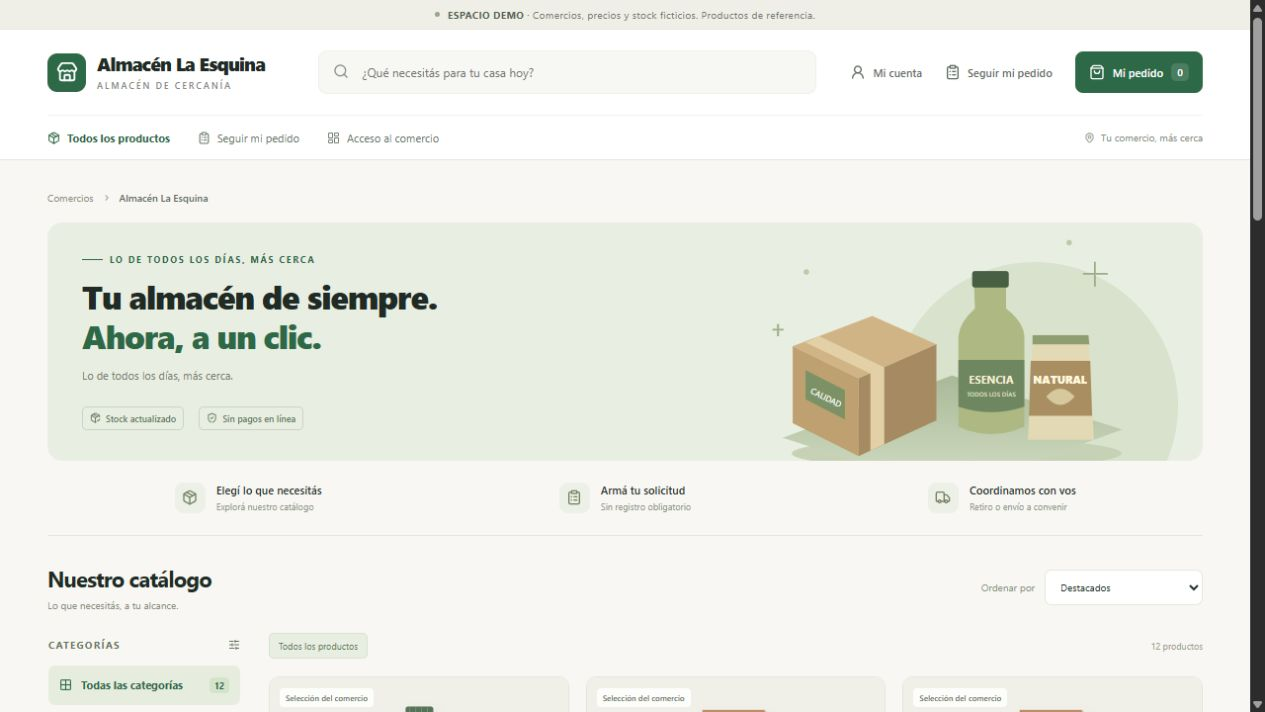
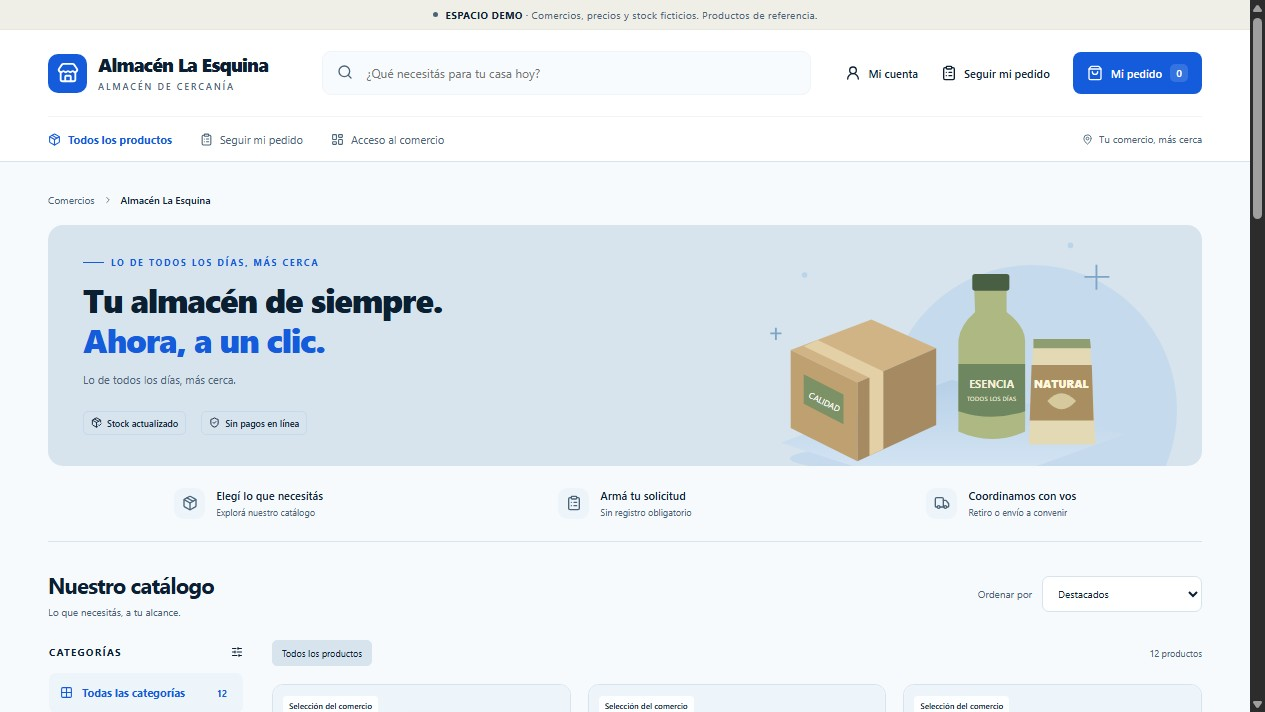
Refresh demo gallery for original Scalaris blue branding

diff --git a/public/proyectos/index.html b/public/proyectos/index.html
@@ -149,7 +149,7 @@
           <article class="project-card project-emedicapp" data-project="e-medicapp" data-state="demo">
             <a class="project-preview" href="https://scalaris.com.ar/e-medicapp/" target="_blank" rel="noopener noreferrer" aria-label="Explorar la demo de E-MEDICAPP, abre en una pestaña nueva">
               <div class="project-browser" aria-hidden="true"><span class="browser-dots"><i></i><i></i><i></i></span><span>scalaris.com.ar/e-medicapp/</span><span>↗</span></div>
-              <img src="../assets/proyectos/e-medicapp.webp" width="1200" height="537" alt="Vista de E-MEDICAPP, la aplicación de compras y gestión para farmacias" loading="lazy" decoding="async">
+              <img src="../assets/proyectos/e-medicapp.webp" width="1910" height="889" alt="Vista del acceso de E-MEDICAPP, con perfiles de demostración y la paleta azul de Scalaris" loading="lazy" decoding="async">
               <span class="preview-caption demo-caption">Demo interactiva</span>
             </a>
             <div class="project-copy">

diff --git a/README.md b/README.md
@@ -27,7 +27,7 @@ Abrir http://127.0.0.1:8080. Para abrirlo con doble clic, usar `VerSitio.cmd` y 
 
 - `public/proyectos/` reúne 19 fichas. Las tres primeras muestran las demos de Scalaris Comercio: Corralón Punto Obra, Ronda Mayorista y Almacén La Esquina, con acceso directo a `/comercio/t/corralon-demo`, `/comercio/t/mayorista-demo` y `/comercio/t/almacen-demo`. La cuarta presenta Scalaris Mesa en `/mesa/`, una demo de gestión para restaurantes y cafés con un entorno independiente y datos ficticios por visitante. Conserva Remodelaya, Shekinah, Tu Comida, E-MEDICAPP, Burger House, Gestudio, FourBubbles, Scalaris CRM, PharmaHome, Calendario de servicios, Inventarios Mueblería, Gym & Academy Manager, Presupuestador Flete, HogarIA y CJ Préstamos. Distingue los proyectos desplegados, las demos interactivas y los proyectos en preparación. Burger House es un proyecto desplegado y Tu Comida es una demo interactiva. Las fichas pendientes ofrecen una consulta, sin publicar una dirección de demo todavía inexistente. Tu Comida, E-MEDICAPP y Burger House se abren en `/tu-comida/`, `/e-medicapp/` y `/burger-house-3/`. Las 19 fichas tienen miniatura: trece capturas reales (nueve WebP, tres JPEG y un PNG) y seis portadas SVG originales identificadas como vistas ilustrativas. Gestudio, FourBubbles y Mesa muestran datos ficticios; PharmaHome muestra un formulario vacío. Shekinah conserva su captura local identificada porque el acceso público fue bloqueado por FortiGuard en este entorno.
 - Cada ficha declara `data-project` y `data-state` (`live`, `demo` o `preparation`). Al verificar una nueva publicación, actualizar juntos estado, etiqueta, nota y enlace de la ficha correspondiente. La verificación de publicación exige las 19 fichas, identificadores únicos, estados válidos y los enlaces de las demos de Comercio y Mesa. También comprueba que Mesa se presente como demo, use su captura y explique los datos ficticios y el entorno por visitante.
-- Evaluación del estándar (24/10/2026, fuentes: `package.json`, `wrangler.jsonc`, `.github/workflows/check.yml`, las páginas de `public/` y `functions/mesa/[[path]].js`): la galería usa HTML/CSS estáticos y Cloudflare Pages con CI; no necesita un backend ni base de datos propios. Conservar esa arquitectura permite agregar Mesa mediante una ficha, una captura y el control existente, con bajo esfuerzo y sin introducir otra compilación o despliegue para la galería. La aplicación Mesa mantiene su frontend React, backend Spring y PostgreSQL en el VPS, bajo el prefijo público `/mesa/`. La aceptación de esta ampliación es encontrar la ficha, identificarla como demo con datos ficticios por visitante y abrir `/mesa/` tanto desde la miniatura como desde el enlace. Las capturas de Comercio se tomaron de sus páginas públicas el 23/10/2026; la de Mesa se tomó el 24/10/2026 en 1440 × 900, con el salón y una cuenta ficticia.
+- Evaluación del estándar (24/10/2026, fuentes: `package.json`, `wrangler.jsonc`, `.github/workflows/check.yml`, las páginas de `public/` y `functions/mesa/[[path]].js`): la galería usa HTML/CSS estáticos y Cloudflare Pages con CI; no necesita un backend ni base de datos propios. Conservar esa arquitectura permite agregar Mesa mediante una ficha, una captura y el control existente, con bajo esfuerzo y sin introducir otra compilación o despliegue para la galería. La aplicación Mesa mantiene su frontend React, backend Spring y PostgreSQL en el VPS, bajo el prefijo público `/mesa/`. La aceptación de esta ampliación es encontrar la ficha, identificarla como demo con datos ficticios por visitante y abrir `/mesa/` tanto desde la miniatura como desde el enlace. Las capturas de Comercio, Mesa y E-MEDICAPP se renovaron desde sus páginas públicas el 27/10/2026 con la paleta azul. Mesa conserva la vista del salón y una cuenta ficticia a 1440 × 900; E-MEDICAPP muestra su acceso y perfiles de demostración.
 - `public/tienda/` permite buscar por modelo/marca, filtrar por categoría, ordenar por precio, revisar fichas y agregar hasta 12 productos distintos a un pedido. Muestra precios unitarios, subtotales y total por transferencia; el envío se cotiza aparte por código postal. Las cantidades, referencias y el total se preparan en un enlace de WhatsApp; la persona revisa y envía el mensaje. No hay cobro automático ni reserva de stock. La selección se conserva en la sesión del navegador, sin datos personales.
 - Importación del 20/10/2026: 7.305 productos (NB 1.409, DistriLand 2.796 y TecnoPrices 3.100). Las fotos de NB usan sus URL originales; las de TecnoPrices se extrajeron del PDF y se alojan localmente (2.730 archivos únicos, 12,3 MB). DistriLand queda con un marcador explícito de imagen pendiente. Las descripciones son las referencias disponibles en las fuentes; no se inventan especificaciones.
 - El catálogo público contiene nombres, categorías, fotos y referencias; no expone costo, escalas mayoristas, stock histórico ni información interna. El importador y los controles usan una lista explícita de campos públicos. Los nombres iguales entre proveedores conservan sus referencias: no se asume que variantes diferentes sean el mismo producto.
@@ -35,6 +35,18 @@ Abrir http://127.0.0.1:8080. Para abrirlo con doble clic, usar `VerSitio.cmd` y 
 - Los precios se calculan desde los costos finales y el patrón comercial guardado exclusivamente en `.private/market-research/pricing-settings.json`. El usuario cerró las búsquedas el 21/10/2026 y se eliminó el seguimiento automático. La evidencia anterior conserva sus fechas y sólo se muestra mientras siga vigente. Ver [estrategia de venta](scripts/ESTRATEGIA-PRECIOS.md) y [validación de referencias](scripts/MERCADO.md).
 
 Para actualizar listas, fotos o costos NB en pesos, seguir [Importar catálogos](scripts/IMPORTAR-CATALOGOS.md). La actualización NB del 20/10/2026 (`NB-Lista-Precios-20_10_2026_01_55-84844.xls`) aporta **1.408 costos finales en ARS**, unidos por identificador de URL al código NB original. Se usa la columna `Costo`; las fotos y referencias provienen del catálogo anterior. El producto `nb-124029` (Kit Gigabyte promoción) no figura en esta lista: conserva su costo histórico USD y requiere confirmación antes de cotizar. El XLSX anterior se conserva como procedencia histórica, sin convertir sus importes automáticamente. El CSV opcional `id,costARS` sigue disponible para actualizaciones manuales.
+
+## Identidad de las demos — 27/10/2026
+
+Las demos que utilizaban verde como marca recuperan la paleta original de `public/styles.css`: azul `#145cdb`, marino `#0b1f33`, celeste `#53c9f4`, fondo `#eef5fa`, texto secundario `#496479`, bordes `#d7e3ed` y hover `#104bb5`. La aplicación abarca Scalaris Comercio (Corralón Punto Obra, Ronda Mayorista y Almacén La Esquina), Scalaris Mesa y E-MEDICAPP. Los estados de éxito, disponibilidad, conexión o mesas listas conservan sus colores funcionales. Las marcas de clientes y las demos con otra identidad quedan fuera de este cambio de verde a azul.
+
+Evaluación acotada del proyecto existente: la galería HTML/CSS y su publicación en Cloudflare Pages permiten reflejar la nueva marca actualizando las cinco capturas y el texto alternativo del acceso de E-MEDICAPP. No se necesita migración de stack; beneficio de consistencia visual, esfuerzo bajo y riesgo de miniaturas desactualizadas, cubierto con capturas de las páginas públicas y el control existente de recursos y enlaces.
+
+El 27/10/2026 se comprobaron las tres muestras de Comercio en navegador público a 1265 × 712, sin desbordamiento horizontal, con acento `#145cdb`, botones azules y texto blanco. La publicación usa exclusivamente el frontend anterior más el parche de paleta; no incorpora la ampliación de producto que sigue pendiente localmente. El VPS conserva los archivos de backend y datos de referencia y el mismo contenedor/volumen PostgreSQL, comprobados antes y después. Imagen: `scalaris-comercio:blue-20261027-ab27a7b0`; respaldo visual/configuración previo: `/var/backups/scalaris/comercio-palette/20261027T181941Z-ab27a7b0`.
+
+Mesa se publicó mediante su procedimiento existente en el commit `3ccb2619e16879c48392261d2b9ea7f499721920`; backend, web y base terminaron saludables. Se abrió una demo ficticia independiente desde la URL pública y se capturó el salón y el detalle de una cuenta a 1440 × 900. E-MEDICAPP se publicó en GitHub Pages desde `b397093d02465fb3c47852228a04d8bcde4c03ca` ([ejecución aprobada](https://github.com/JerePrograma/E-MEDICAPP/actions/runs/40558148909)); el `deployment.json` público coincide con ese commit y conserva el backend. El botón y el título públicos usan azul y marino; su captura del acceso mide 1910 × 889. Las cinco miniaturas actualizadas provienen de esas páginas públicas, sin alterar su contenido.
+
+Verificación de las aplicaciones: Comercio aprobó TypeScript y compilación aislada; Mesa aprobó compilación y 14 pruebas frontend; E-MEDICAPP aprobó compilación y 47 pruebas. Los pares azul/blanco y azul/fondo claro superan 4,5:1; no constituyen una auditoría completa de accesibilidad ni nuevas pruebas integrales de negocio.
 
 ## Cotizador personal
 
